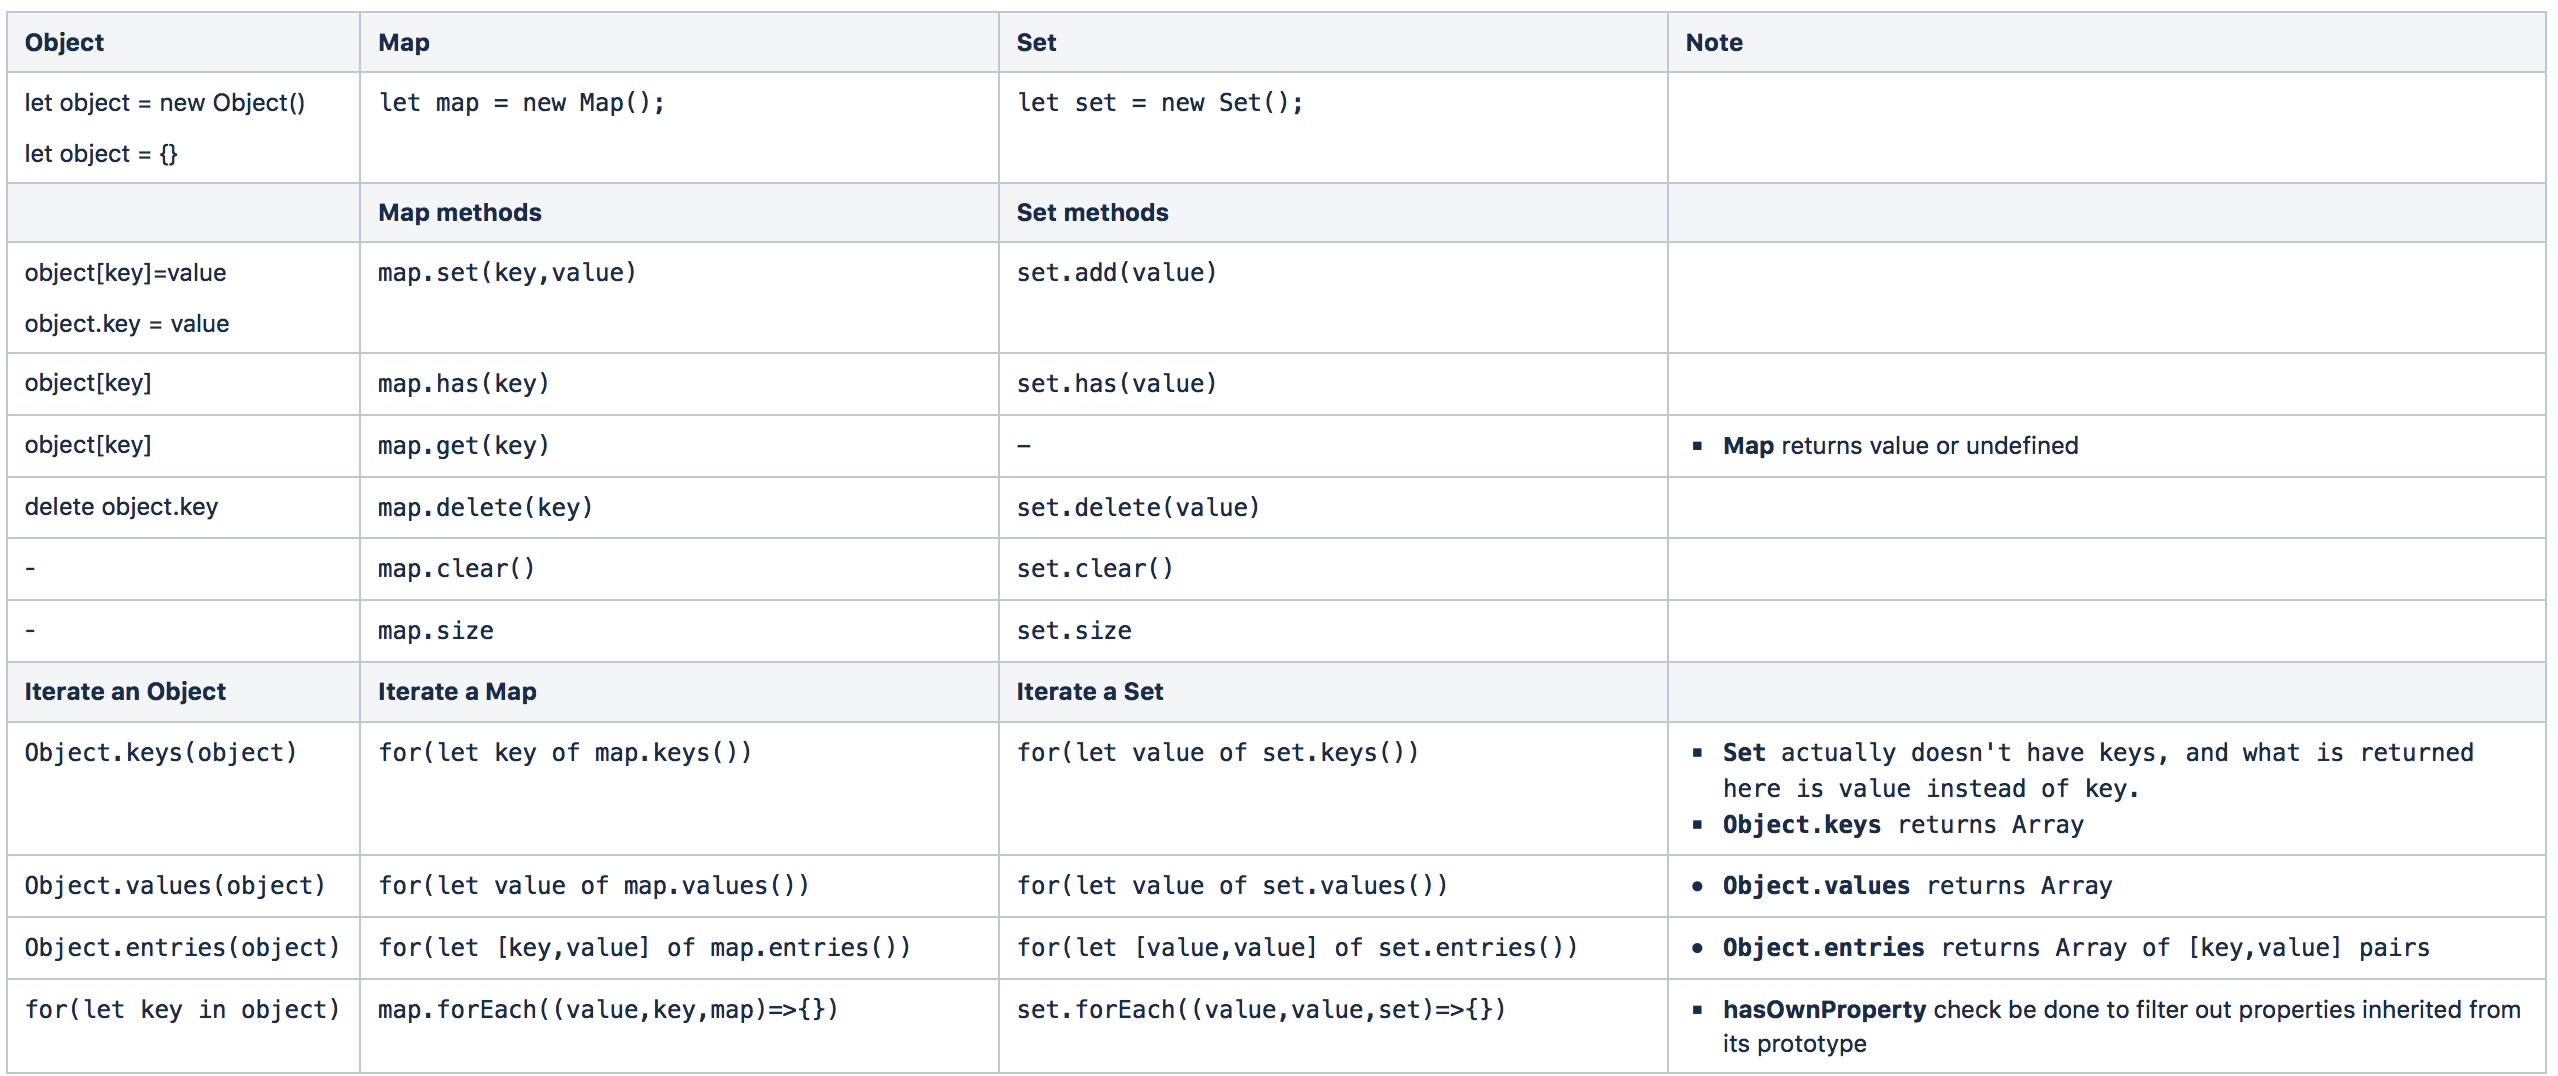
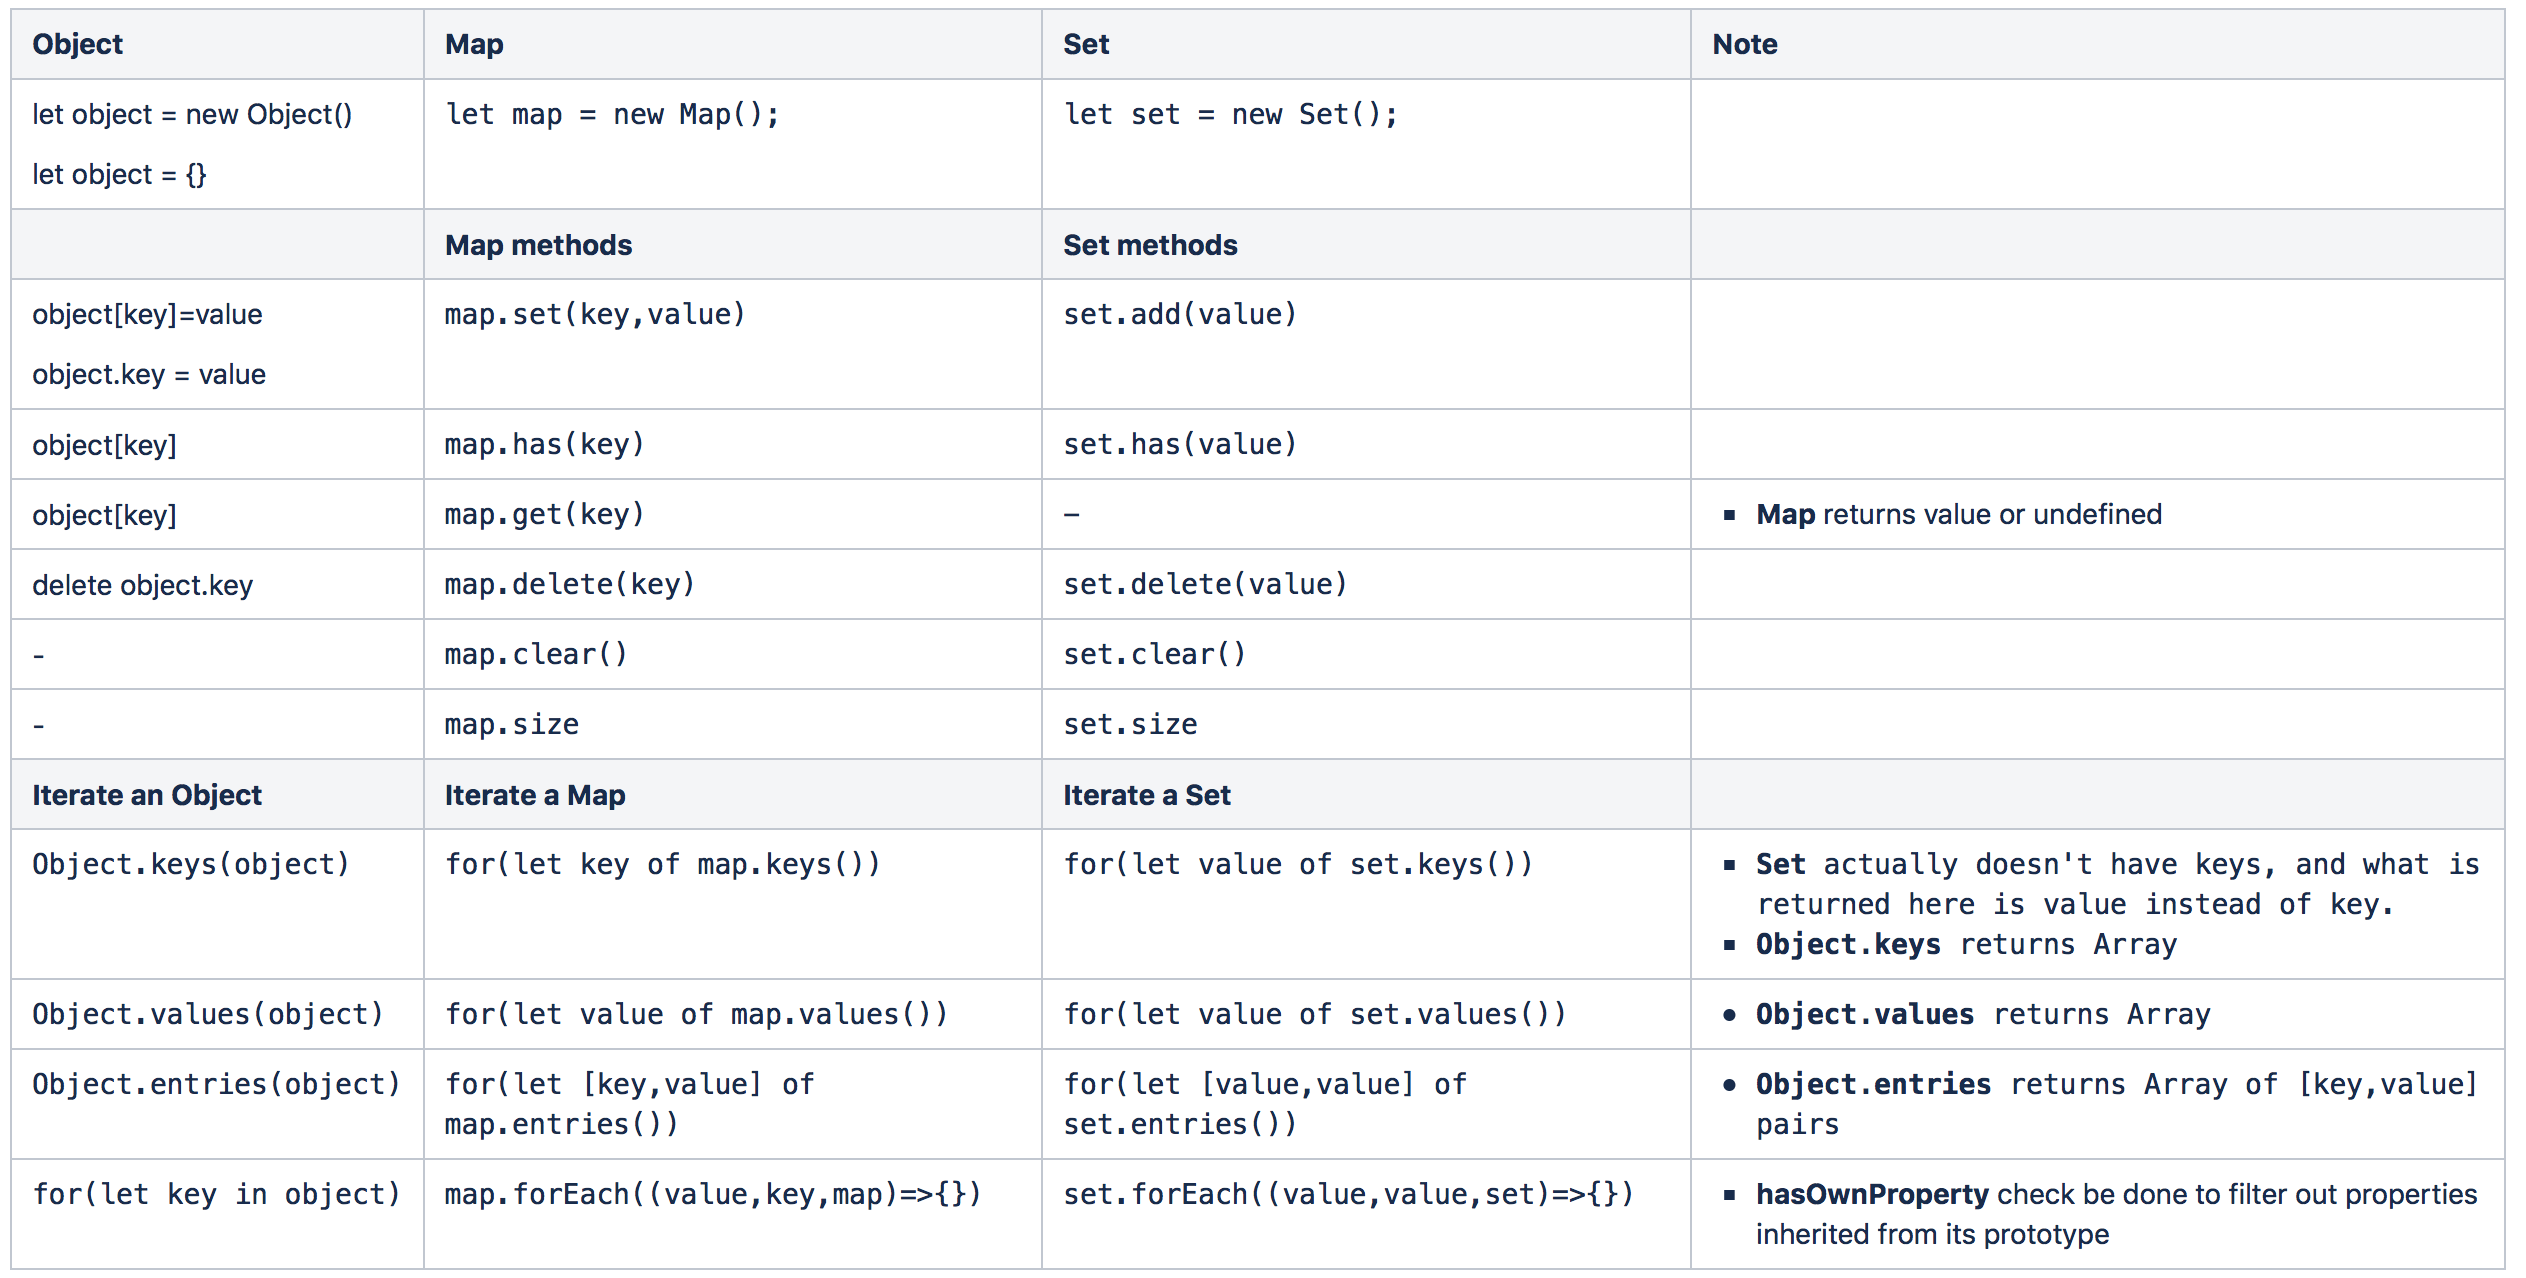
Update Object vs Map vs Set

Changed region(s): [[0.0, 0.0, 1.0, 1.0]]

diff --git a/Map.md b/Map.md
@@ -72,5 +72,5 @@ let set = new Set(myArray);
 ```
 # Map vs Set
 
-<img src="attachments/Object_vs_Map_vs_Set.png" width="2000"/> <br/>
+<img src="attachments/Object_vs_Map_vs_Set.png" width="2400"/> <br/>
 
